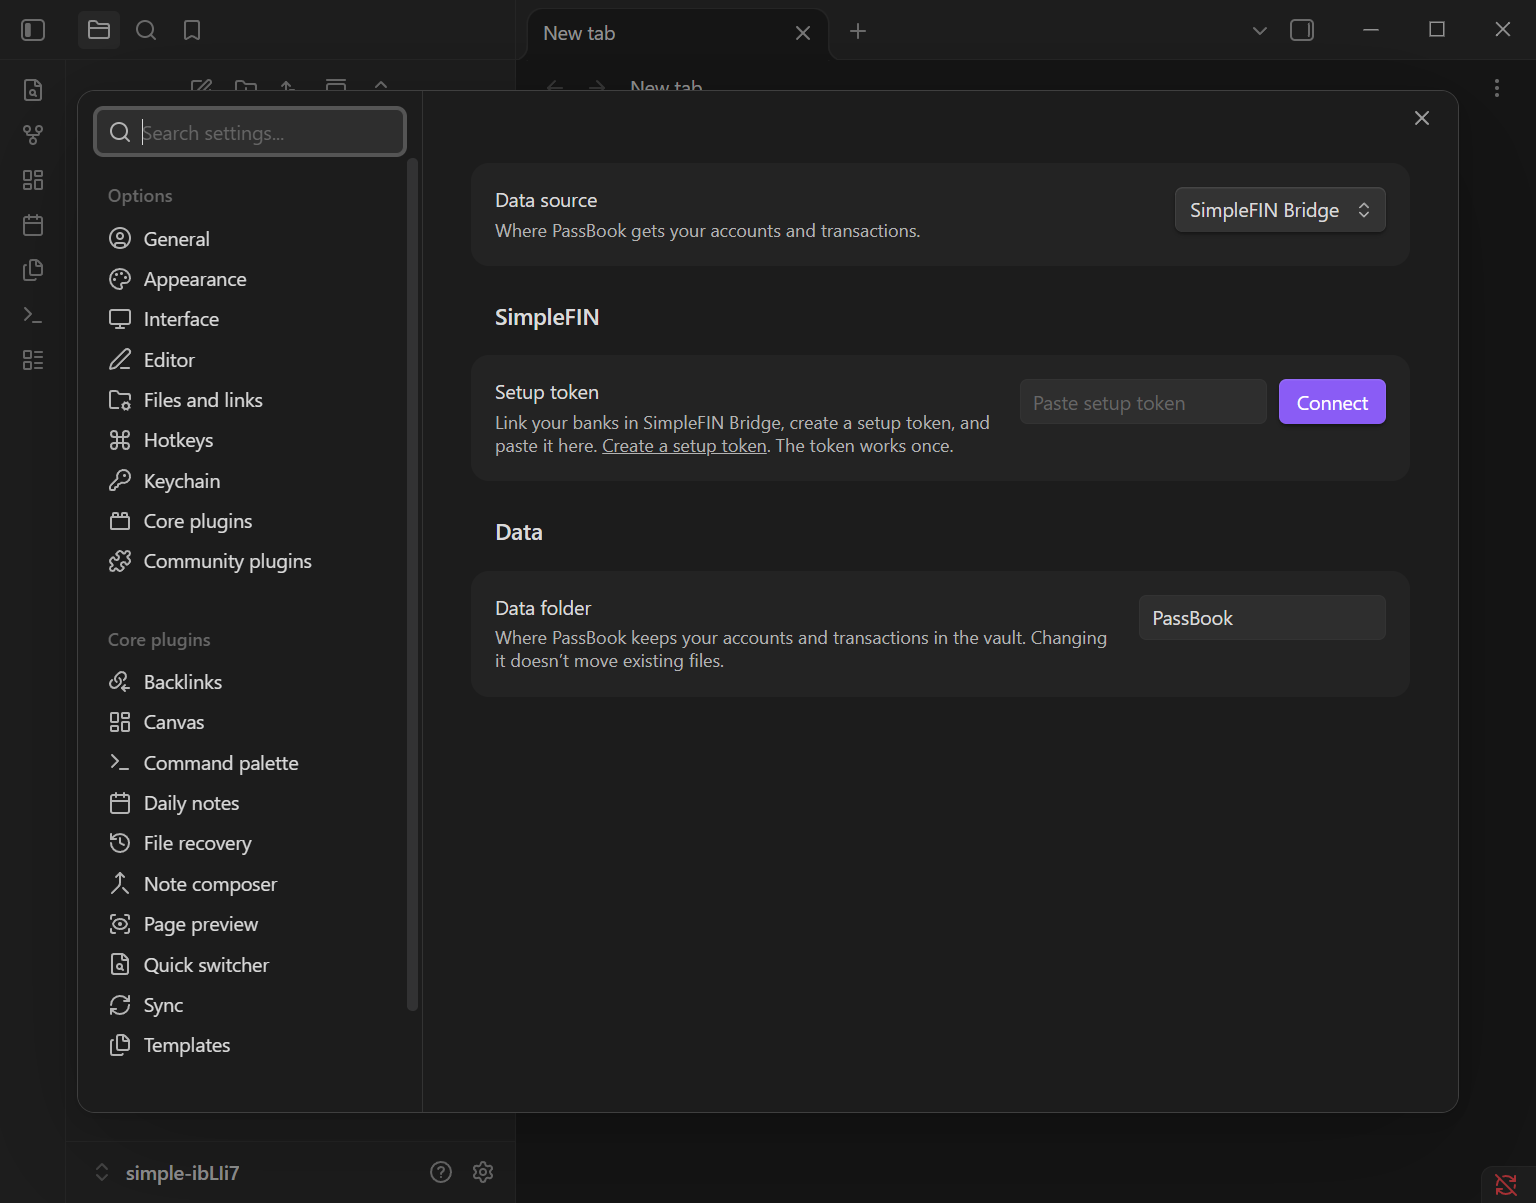
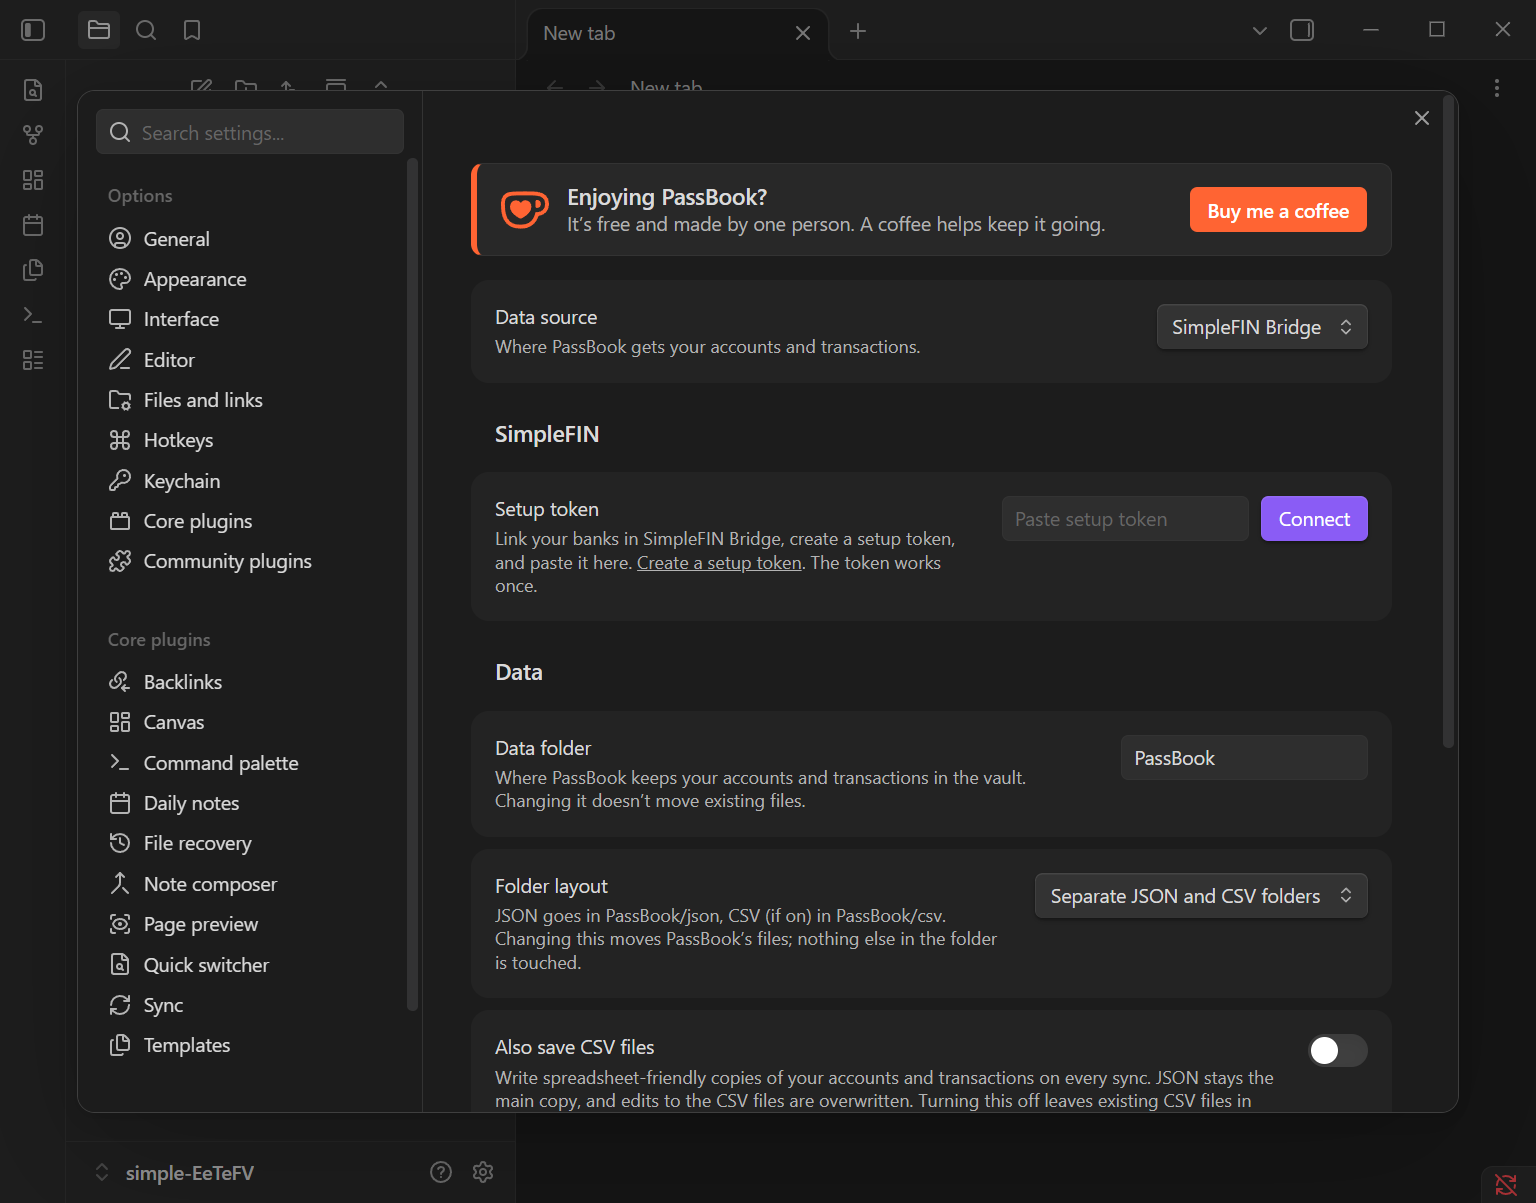
Prepare 0.1.0: README for the store listing, refreshed screenshots, changelog

diff --git a/tests/policy.test.ts b/tests/policy.test.ts
@@ -47,4 +47,25 @@ describe('policy', () => {
 		expect(readme).toMatch(/paid/i);
 		expect(readme).toMatch(/no telemetry/i);
 	});
+	it('keeps the manifest within Obsidian’s submission requirements', () => {
+		const manifest = JSON.parse(readFileSync(join(root, 'manifest.json'), 'utf8')) as Record<string, unknown>;
+		const description = String(manifest.description);
+		expect(String(manifest.id)).toMatch(/^[a-z0-9-]+$/);
+		expect(String(manifest.id)).not.toMatch(/obsidian/i);
+		expect(String(manifest.name)).not.toMatch(/obsidian/i);
+		expect(description.length).toBeLessThanOrEqual(250);
+		expect(description).toMatch(/\.$/);
+		expect(description).not.toMatch(/^this (is a )?plugin/i);
+		expect(description).not.toMatch(/\p{Extended_Pictographic}/u);
+		expect(manifest.version).toMatch(/^\d+\.\d+\.\d+$/);
+		expect(manifest.isDesktopOnly).toBe(false);
+		const funding = manifest.fundingUrl;
+		const urls = typeof funding === 'string' ? [funding] : funding && typeof funding === 'object' ? Object.values(funding as Record<string, string>) : [];
+		for (const url of urls) expect(url).toMatch(/^https:\/\//);
+	});
+
+	it('uses no Node or Electron modules, so it can run on mobile', () => {
+		const offenders = sources.filter((f) => /from ['"](node:|fs|path|os|crypto|child_process|electron)['"]|require\(['"](fs|path|os|crypto|child_process|electron)['"]\)/.test(f.text)).map((f) => f.path);
+		expect(offenders).toEqual([]);
+	});
 });

diff --git a/README.md b/README.md
@@ -1,38 +1,32 @@
 # PassBook
 
-An Obsidian plugin that pulls your bank and credit card data (accounts, balances,
-transactions) into your vault reliably, in a stable, documented format. It's a data
-layer: use the commands, or build your own notes, templates, digests and graphs on its
-API. No server: the plugin talks directly to your data provider from your machine.
+Bring your bank and credit card accounts, balances and transactions into your Obsidian
+vault, kept up to date in a stable, documented format. PassBook is a data layer: sync
+with one command, then build your own notes, daily summaries, dashboards and scripts on
+top. No server and no telemetry; it talks directly to your data provider from your
+device.
 
-Planned data providers:
+## What it does
 
-- **[SimpleFIN Bridge](https://beta-bridge.simplefin.org/)** (first): a consumer service,
-  about $15/year. Link your banks on their site and paste one token into the plugin.
-- **Plaid** (optional, later): requires your own free Plaid developer account. Adds
-  credit card statement balances, minimum payments and due dates.
+- **Syncs your accounts** through [SimpleFIN Bridge](https://bridge.simplefin.org/): link
+  your banks there once, paste one setup token into PassBook, and run **Sync now**.
+- **Keeps your history correct:** charges that post late are picked up, and pending
+  charges are replaced when they post, never duplicated.
+- **Stores plain files in your vault:** JSON by default, with optional CSV copies for
+  spreadsheets, in the folder layout you choose.
+- **Gives scripts and plugins an API** (`api.v1`) with a sync-completed event and
+  published TypeScript types.
+- **Lets you try everything with made-up data** in demo mode, no account needed.
 
-**New here?** Follow [docs/getting-started.md](docs/getting-started.md): signing up for
-SimpleFIN Bridge, linking banks, and your first sync, with screenshots.
+## Getting started
+
+1. Install PassBook from **Settings → Community plugins → Browse** and enable it.
+2. Follow [docs/getting-started.md](docs/getting-started.md): signing up for SimpleFIN
+   Bridge, linking banks, and your first sync, with screenshots.
 
 **Try it without an account:** in **Settings → PassBook**, set **Data source** to
 **Demo**. PassBook then syncs made-up accounts and transactions into a separate
 `PassBook (demo)` folder, with no network use at all.
-
-## Building from source
-
-Requires Node.js 20 or later.
-
-```sh
-npm install
-npm run build   # type-check and bundle main.js
-npm test        # unit tests (vitest)
-npm run lint
-```
-
-To try it, copy `main.js`, `manifest.json` and `styles.css` into
-`<your vault>/.obsidian/plugins/passbook/`, reload Obsidian and enable PassBook under
-**Settings → Community plugins**. `npm run dev` rebuilds on every change.
 
 ## Using the data
 
@@ -127,10 +121,15 @@ The full picture, including what could go wrong, is in
 PassBook is free and open source. If it's useful to you, you can
 [buy the developer a coffee on Ko-fi](https://ko-fi.com/devmilo).
 
-## Status
+## Feedback
 
-Beta, not yet released. Follow progress on the [issue tracker](../../issues) and
-[milestones](../../milestones).
+Found a problem or have an idea? Use **Report a problem** or **Suggest a feature** at the
+bottom of **Settings → PassBook**, or [open an issue](../../issues/new/choose).
+
+## Contributing
+
+Building from source, running the tests and the project's ground rules are in
+[CONTRIBUTING.md](CONTRIBUTING.md).
 
 ## License
 

diff --git a/docs/getting-started.md b/docs/getting-started.md
@@ -51,7 +51,7 @@ storage on this device, and checks it works. You should see this:
 
 Open the command palette and run **PassBook: Sync now**.
 
-![The command palette showing PassBook's four commands](images/6-command-palette.png)
+![The command palette showing PassBook's commands](images/6-command-palette.png)
 
 The first sync fetches the last 90 days. A notice tells you how many accounts and new
 transactions it found, along with any problem, such as a bank that needs you to sign in

diff --git a/CHANGELOG.md b/CHANGELOG.md
@@ -7,6 +7,10 @@ contract, so breaking either means a major version.
 
 ## [Unreleased]
 
+## [0.1.0] - 2026-10-11
+
+First release.
+
 ### Added
 
 - SimpleFIN Bridge connection: paste a setup token in **Settings → PassBook**.
